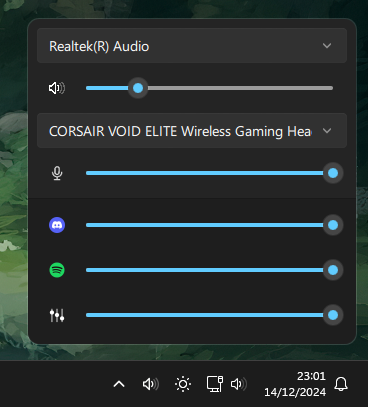
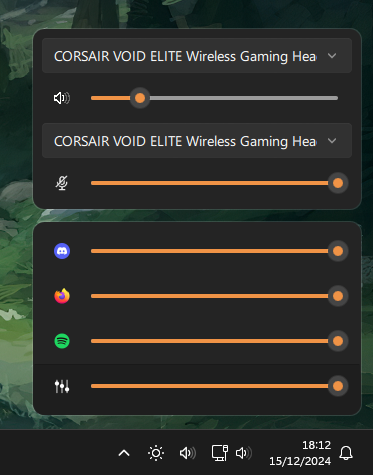
redesigned panel, use separate panel for apps and devices

diff --git a/Resources/qml/SoundPanel11.qml b/Resources/qml/SoundPanel11.qml
@@ -71,46 +71,62 @@ ApplicationWindow {
 
     Rectangle {
         id: ioRectangle
-        anchors.fill: parent
+        anchors.top: parent.top
+        anchors.right: parent.right
+        anchors.left: parent.left
+        height: 182
         color: nativeWindowColor
+        border.color: Qt.rgba(255, 255, 255, 0.15)
+        border.width: 1
+        radius: 12
+    }
+
+    Rectangle {
+        id: appRectangle
+        anchors.fill: parent
+        anchors.topMargin: 193
+        color: singleApp ? contrastedColor : nativeWindowColor
         border.color: Qt.rgba(255, 255, 255, 0.15)
         border.width: 1
         radius: 12
 
 
-
         Rectangle {
-            anchors.fill: parent
-            anchors.topMargin: 180
+            id: bottomContrastRectangle
+            anchors.top: appRepeater.bottom
+            anchors.bottom: parent.bottom
+            anchors.left: parent.left
+            anchors.right: parent.right
+            anchors.topMargin: 1
             anchors.leftMargin: 1
             anchors.rightMargin: 1
             anchors.bottomMargin: 1
+            height: 51
+            visible: !singleApp
             //border.color: Qt.rgba(255, 255, 255, 0.15)
             //border.width: 1
             radius: 12
             color: contrastedColor
-        }
 
-        Rectangle {
-            anchors.top: parent.top
-            anchors.left: parent.left
-            anchors.right: parent.right
-            anchors.topMargin: 180
-            anchors.leftMargin: 1
-            anchors.rightMargin: 1
-            height: 12
-            color: contrastedColor
-        }
+            Rectangle {
+                anchors.top: parent.top
+                anchors.left: parent.left
+                anchors.right: parent.right
+                anchors.leftMargin: 1
+                anchors.rightMargin: 1
+                height: 12
+                color: contrastedColor
 
-        Rectangle {
-            anchors.top: parent.top
-            anchors.left: parent.left
-            anchors.right: parent.right
-            anchors.topMargin: 180
-            anchors.leftMargin: 1
-            anchors.rightMargin: 1
-            height: 1
-            color: contrastedBorderColor
+                Rectangle {
+                    anchors.top: parent.top
+                    anchors.left: parent.left
+                    anchors.right: parent.right
+                    anchors.leftMargin: 1
+                    anchors.rightMargin: 1
+                    height: 1
+                    color: contrastedBorderColor
+                }
+            }
         }
     }
 
@@ -229,7 +245,7 @@ ApplicationWindow {
         }
 
         Item {
-            Layout.preferredHeight: 2
+            Layout.preferredHeight: 18
             Layout.columnSpan: 2
         }
 

diff --git a/SoundPanel/SoundPanel.cpp b/SoundPanel/SoundPanel.cpp
@@ -317,41 +317,8 @@ void SoundPanel::populateApplicationModel() {
 
     QMetaObject::invokeMethod(engine->rootObjects().first(), "clearApplicationModel");
 
-    // Process system sounds first
-    if (!systemSoundApps.isEmpty()) {
-        QString displayName = systemSoundApps.first().name.isEmpty() ? "Windows system sounds" : systemSoundApps.first().name;
-
-        bool isMuted = std::any_of(systemSoundApps.begin(), systemSoundApps.end(), [](const Application &app) {
-            return app.isMuted;
-        });
-        int volume = 0;
-        if (!systemSoundApps.isEmpty()) {
-            volume = std::max_element(systemSoundApps.begin(), systemSoundApps.end(), [](const Application &a, const Application &b) {
-                         return a.volume < b.volume;
-                     })->volume;
-        }
-
-        QPixmap iconPixmap = systemSoundApps.first().icon.pixmap(16, 16);
-        QByteArray byteArray;
-        QBuffer buffer(&byteArray);
-        buffer.open(QIODevice::WriteOnly);
-        iconPixmap.toImage().save(&buffer, "PNG");
-        QString base64Icon = QString::fromUtf8(byteArray.toBase64());
-
-        QStringList appIDs;
-        for (const Application &app : systemSoundApps) {
-            appIDs.append(app.id);
-        }
-
-        QMetaObject::invokeMethod(engine->rootObjects().first(), "addApplication",
-                                  Q_ARG(QVariant, QVariant::fromValue(appIDs.join(";"))),
-                                  Q_ARG(QVariant, QVariant::fromValue(displayName)),
-                                  Q_ARG(QVariant, QVariant::fromValue(isMuted)),
-                                  Q_ARG(QVariant, QVariant::fromValue(volume)),
-                                  Q_ARG(QVariant, QVariant::fromValue(base64Icon)));
-    }
-
-    // Process other grouped applications
+    int addedAppsCount = 0;
+    // Process other grouped applications first
     for (auto it = groupedApps.begin(); it != groupedApps.end(); ++it) {
         QString executableName = it.key();
         QVector<Application> appGroup = it.value();
@@ -386,6 +353,47 @@ void SoundPanel::populateApplicationModel() {
                                   Q_ARG(QVariant, QVariant::fromValue(isMuted)),
                                   Q_ARG(QVariant, QVariant::fromValue(volume)),
                                   Q_ARG(QVariant, QVariant::fromValue(base64Icon)));
+        addedAppsCount++;
+    }
+
+    // Process system sounds last
+    if (!systemSoundApps.isEmpty()) {
+        QString displayName = systemSoundApps.first().name.isEmpty() ? "Windows system sounds" : systemSoundApps.first().name;
+
+        bool isMuted = std::any_of(systemSoundApps.begin(), systemSoundApps.end(), [](const Application &app) {
+            return app.isMuted;
+        });
+        int volume = 0;
+        if (!systemSoundApps.isEmpty()) {
+            volume = std::max_element(systemSoundApps.begin(), systemSoundApps.end(), [](const Application &a, const Application &b) {
+                         return a.volume < b.volume;
+                     })->volume;
+        }
+
+        QPixmap iconPixmap = systemSoundApps.first().icon.pixmap(16, 16);
+        QByteArray byteArray;
+        QBuffer buffer(&byteArray);
+        buffer.open(QIODevice::WriteOnly);
+        iconPixmap.toImage().save(&buffer, "PNG");
+        QString base64Icon = QString::fromUtf8(byteArray.toBase64());
+
+        QStringList appIDs;
+        for (const Application &app : systemSoundApps) {
+            appIDs.append(app.id);
+        }
+
+        QMetaObject::invokeMethod(engine->rootObjects().first(), "addApplication",
+                                  Q_ARG(QVariant, QVariant::fromValue(appIDs.join(";"))),
+                                  Q_ARG(QVariant, QVariant::fromValue(displayName)),
+                                  Q_ARG(QVariant, QVariant::fromValue(isMuted)),
+                                  Q_ARG(QVariant, QVariant::fromValue(volume)),
+                                  Q_ARG(QVariant, QVariant::fromValue(base64Icon)));
+        addedAppsCount++;
+    }
+    if (addedAppsCount == 1) {
+        engine->rootContext()->setContextProperty("singleApp", true);
+    } else {
+        engine->rootContext()->setContextProperty("singleApp", false);
     }
 }
 
